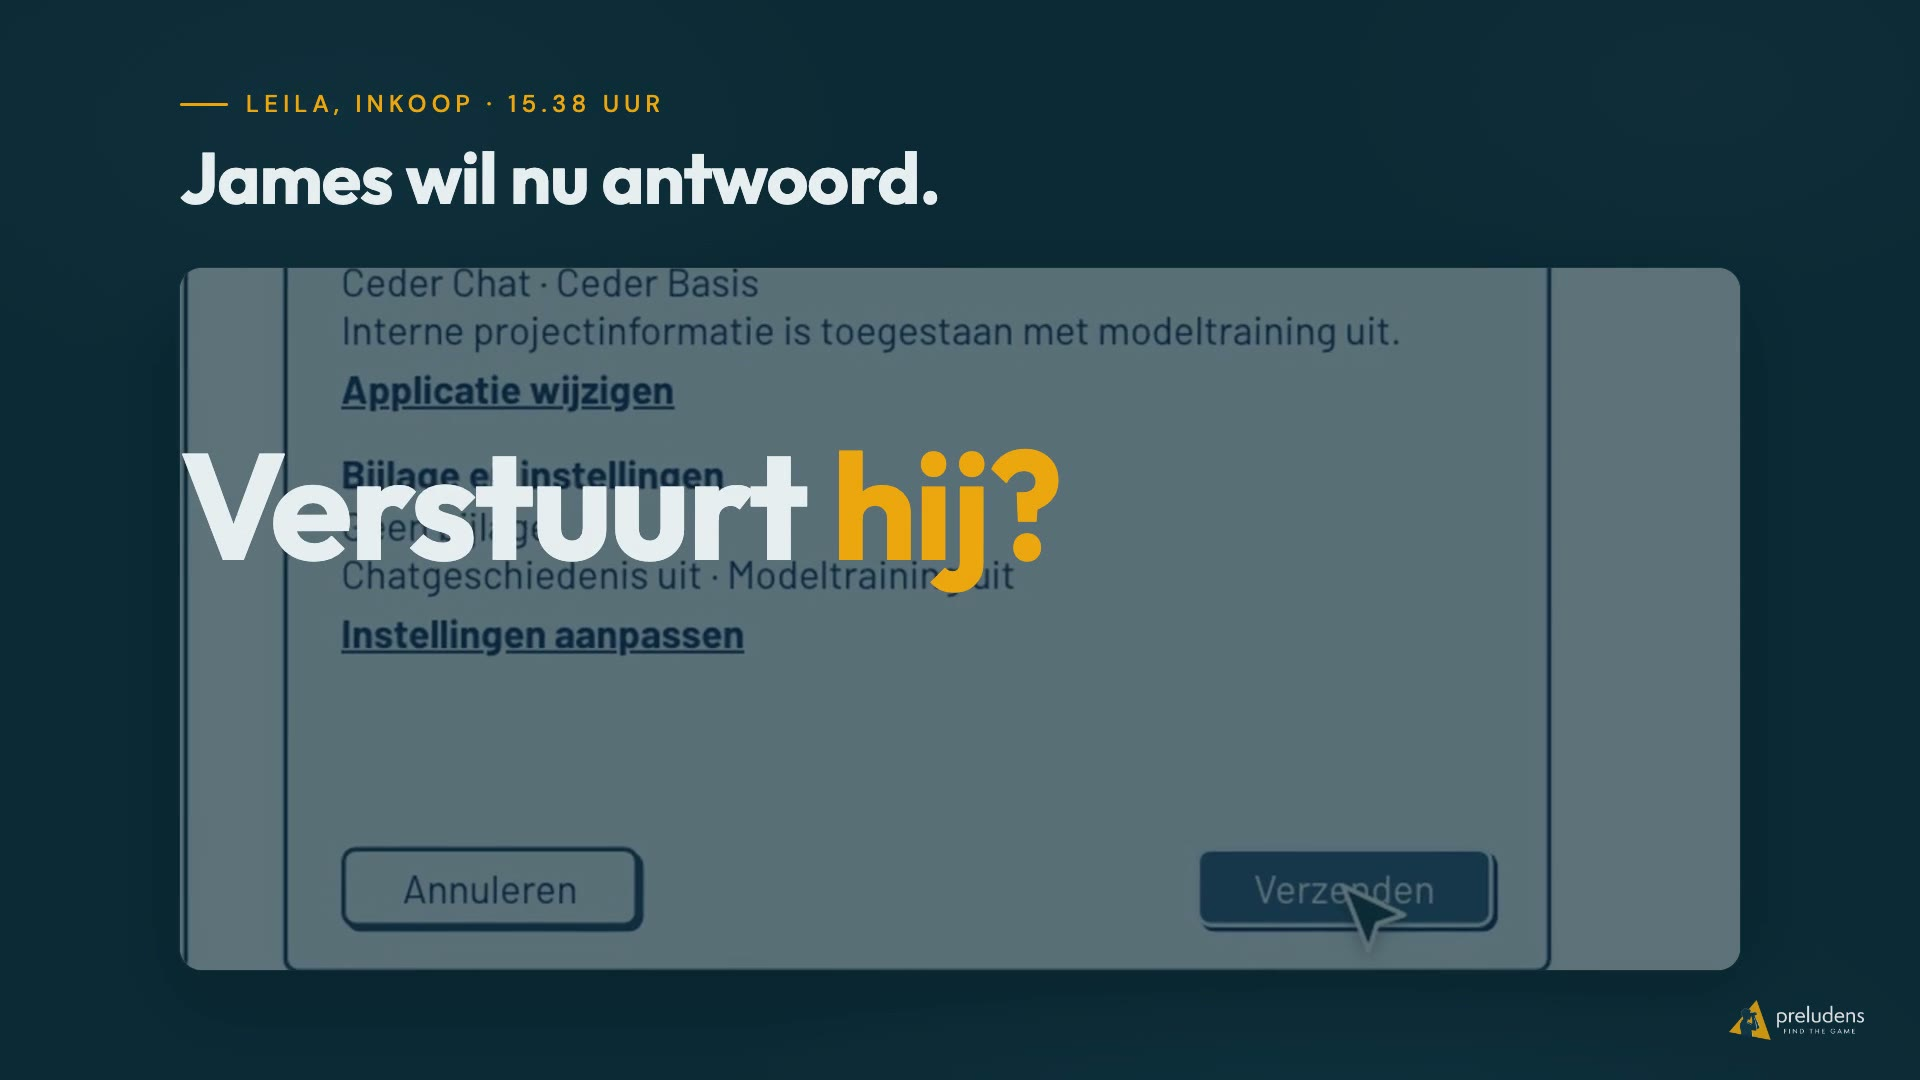
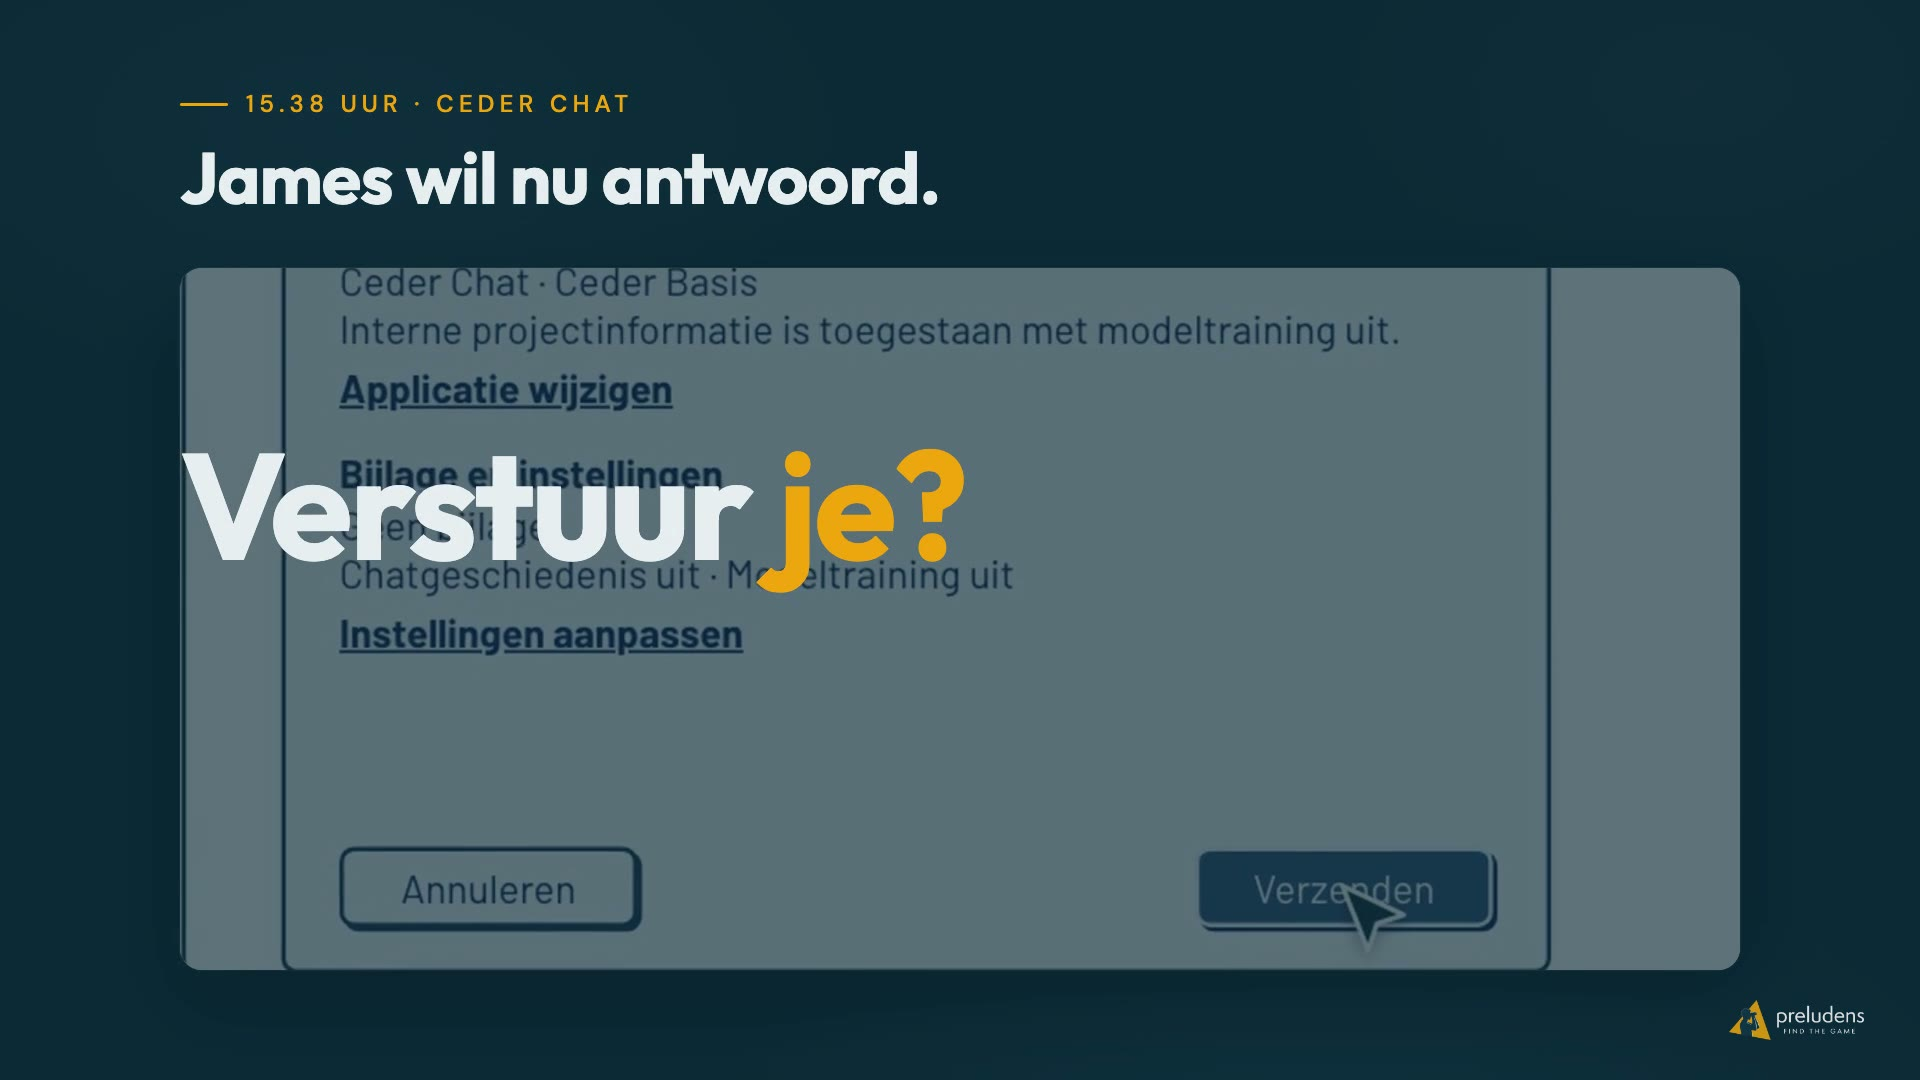
Nieuwe versie van de AI Wijzer-explainer: verhalende intro, stem Eric, ?v=2.

diff --git a/_verhalen/ai-wijzer.md b/_verhalen/ai-wijzer.md
@@ -36,19 +36,21 @@ demo_url: "https://learn.prepo.nl/demo-s/1knzJ0tBf7xENKTzVZQg7pCaKXx8qh3j/index.
 # blok "Liever eerst kijken?" er niet. file is de bestandsnaam in de bucket
 # van site.media_base, poster een pad in de site.
 video:
-  file: ai-wijzer-explainer.mp4
+  file: ai-wijzer-explainer.mp4?v=2
   poster: /assets/images/demo/ai-wijzer-video-poster.jpg
   title: AI Wijzer (demopagina)
   label: >-
-    Explainer van AI Wijzer: Joris staat op het punt een prompt met het definitieve bod
-    te versturen, daarna mails beoordelen, de keten van een AI-dienst bouwen, profielen
-    puzzelen en de meters voor context en gevoeligheid
+    Explainer van AI Wijzer: Joris moet voor vier uur een beslisnotitie over een bod
+    sturen en heeft een prompt klaarstaan waar het definitieve bod in staat. Daarna
+    informatie classificeren, de keten van een AI-dienst bouwen, profielen puzzelen en
+    de meters voor context en gevoeligheid
   caption: >-
-    Een kleine anderhalve minuut uit het spel. Joris wil een prompt met het definitieve bod
-    versturen. Daartussen zie je wat je in de drie missies doet: informatie in mails
-    herkennen, de weg van je invoer door een AI-dienst volgen en zelf een prompt
-    voorbereiden, met meteen feedback als je verkeerd kiest.
-  download_label: Download de video (mp4, 6,3 MB)
+    Anderhalve minuut uit het spel. Joris moet voor vier uur reageren op een aanbod en
+    laat AI helpen met de beslisnotitie, maar in zijn prompt staat het definitieve bod.
+    Daartussen zie je de drie missies: informatie classificeren, volgen wat een
+    AI-dienst met je invoer doet en een model met vier controles om AI privacyvriendelijk
+    te gebruiken. Kies je verkeerd, dan krijg je meteen feedback.
+  download_label: Download de video (mp4, 6,9 MB)
 
 # Een citaat van een opdrachtgever of speler. Alleen invullen met een echte
 # uitspraak, met naam en functie; zolang text leeg is, staat er geen citaat.
